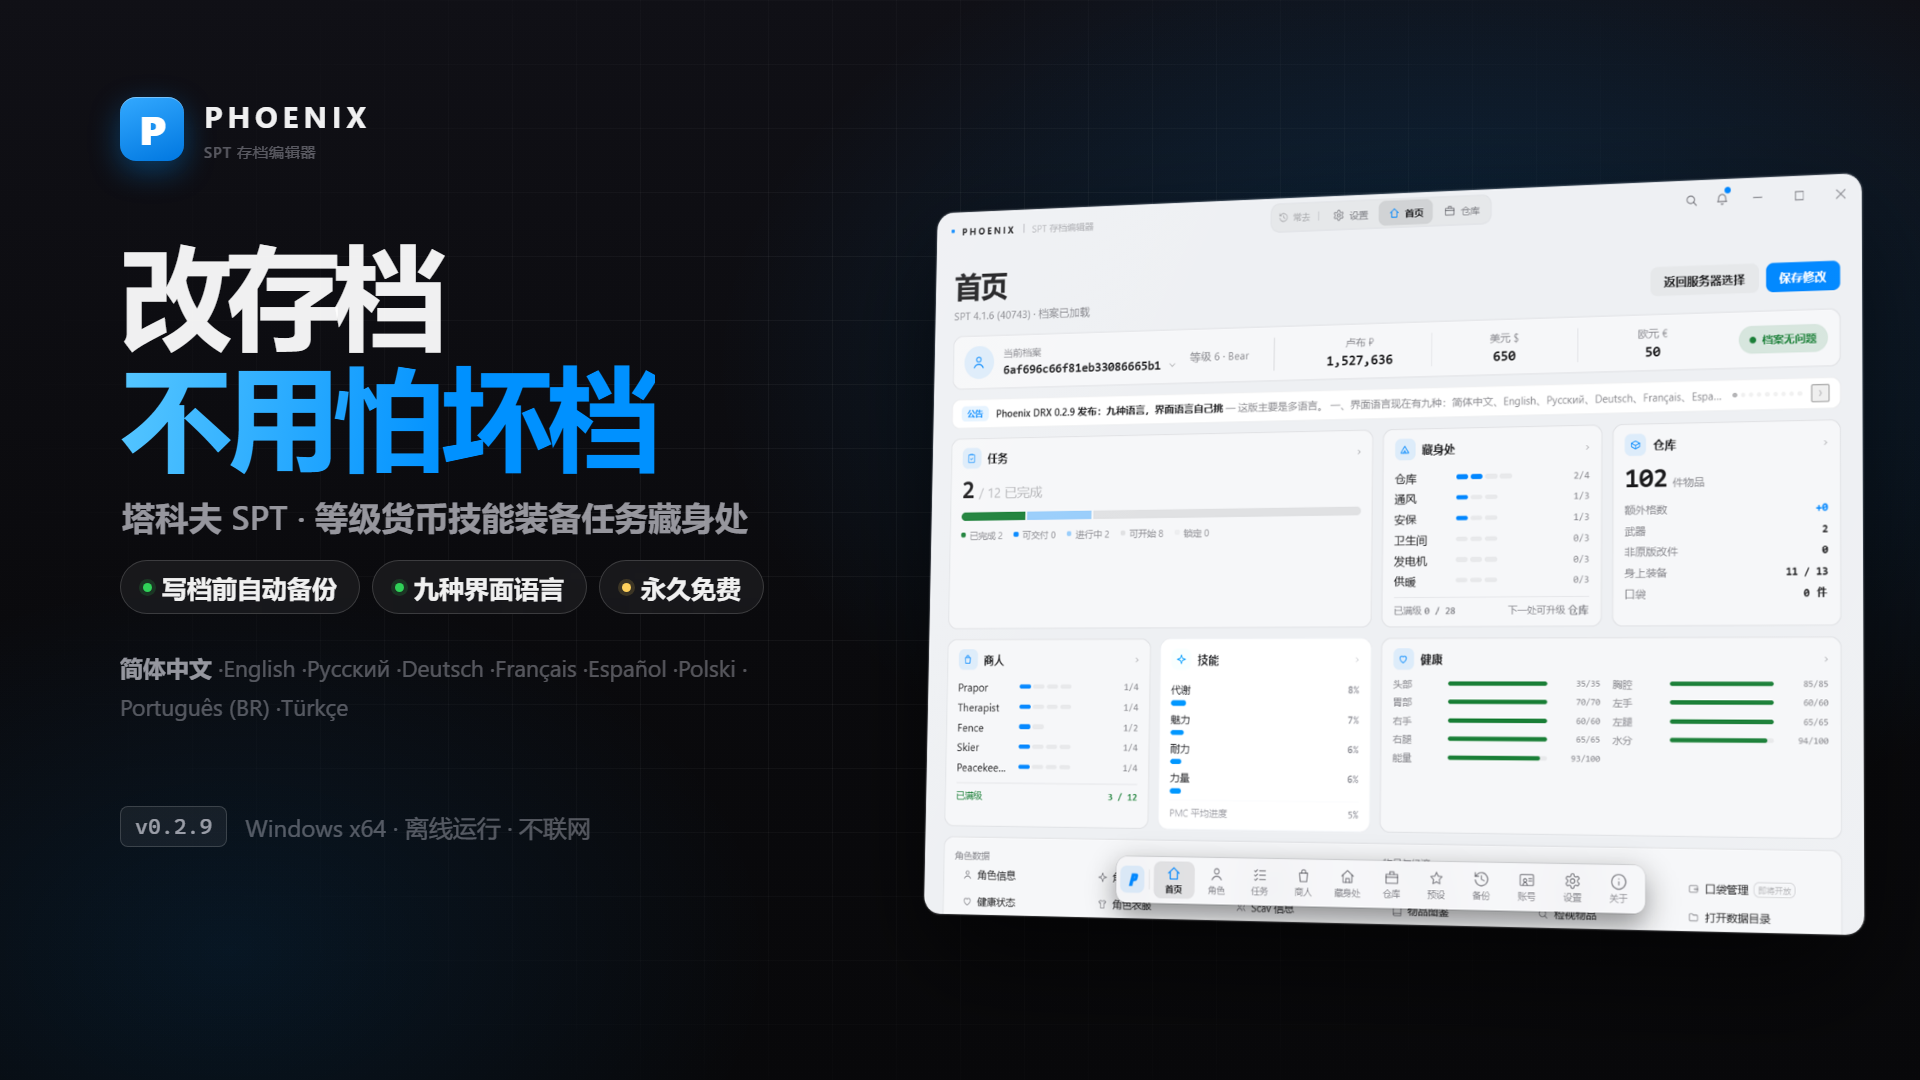
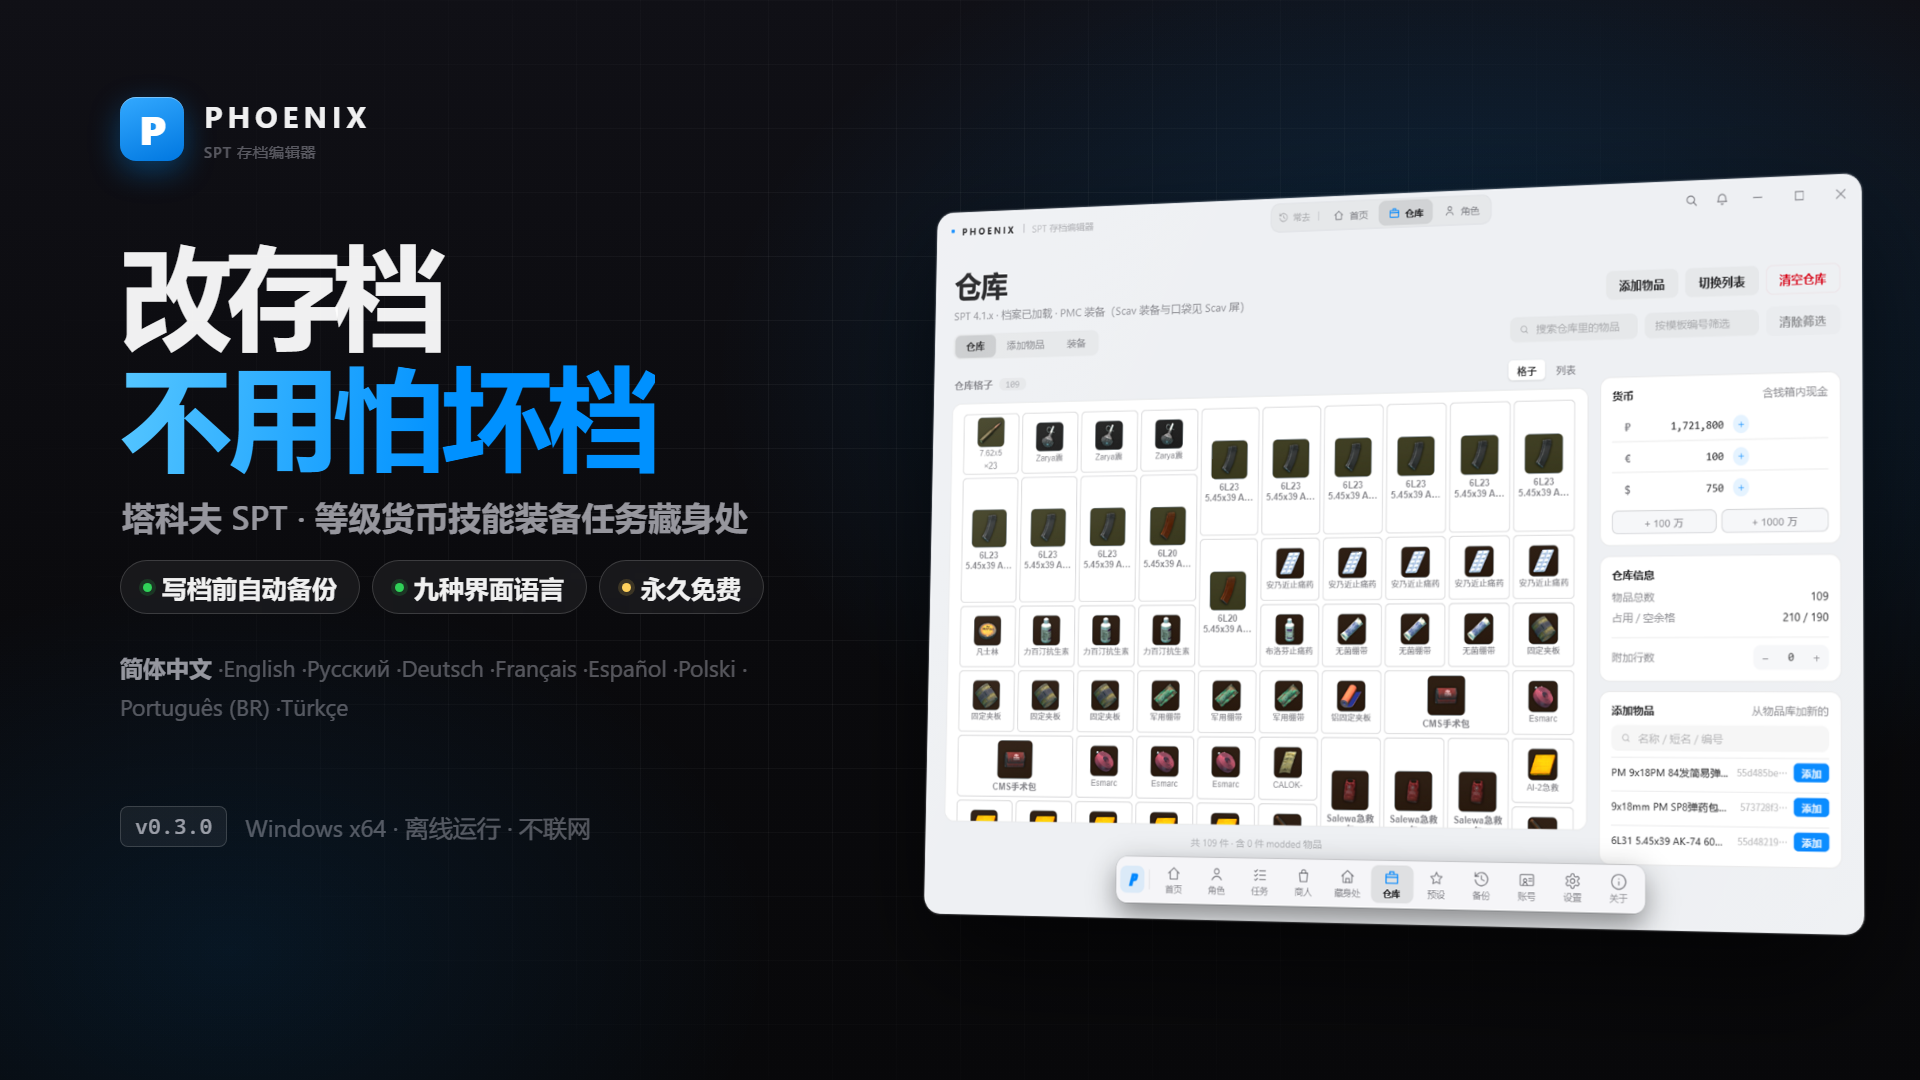
营销：README 加仓库图标截图与「看得见东西」卖点；封面换真实图标截图并升到 v0.3.0

diff --git a/docs/marketing/cover.html b/docs/marketing/cover.html
@@ -245,12 +245,12 @@
     </div>
 
     <div class="foot">
-      <span class="v">v0.2.9</span>
+      <span class="v">v0.3.0</span>
       <span>Windows x64 · 离线运行 · 不联网</span>
     </div>
 
     <div class="shot">
-      <img src="../images/home-zh.png" alt="">
+      <img src="../images/stash-icons.png" alt="">
       <div class="glare"></div>
     </div>
   </div>
@@ -264,9 +264,9 @@
       <div class="mark">P</div>
       <div class="brand">PHOENIX DRX</div>
     </div>
-    <div class="topright">SPT 存档编辑器 · v0.2.9</div>
+    <div class="topright">SPT 存档编辑器 · v0.3.0</div>
 
-    <div class="frame"><img src="../images/home-zh.png" alt=""></div>
+    <div class="frame"><img src="../images/stash-icons.png" alt=""></div>
 
     <h2>一个窗口<br><em>把存档改明白</em></h2>
 

diff --git a/README.md b/README.md
@@ -10,10 +10,13 @@
 
 **Free SPT profile editor for Windows.** Edit level, money, skills, trader loyalty, quests, hideout and stash items — offline, with an automatic backup before every write, in **9 interface languages**.
 
+<img src="docs/images/stash-icons.png" alt="Phoenix DRX 仓库：真实物品图标" width="900">
+
 <img src="docs/images/home-zh.png" alt="Phoenix DRX 首页" width="900">
 
 - **不会弄坏档**：任何一次写入存档之前先落备份，自动保留最近 10 份，备份页可一键回滚。
 - **九种界面语言**：简体中文 / English / Русский / Deutsch / Français / Español / Polski / Português (BR) / Türkçe，词条按游戏内官方译法，不是机翻。
+- **看得见东西**：仓库、装备栏、口袋、Scav 页和图鉴显示真实物品图标，按需取图并本地缓存，离线也能看。
 - **改得动真东西**：从等级货币到藏身处配方、从任务状态到仓库物品，改动前都拿真实存档验证过。
 
 界面是暗色沉浸风，纯本机离线运行，不联网、不注入、不挂钩子。
